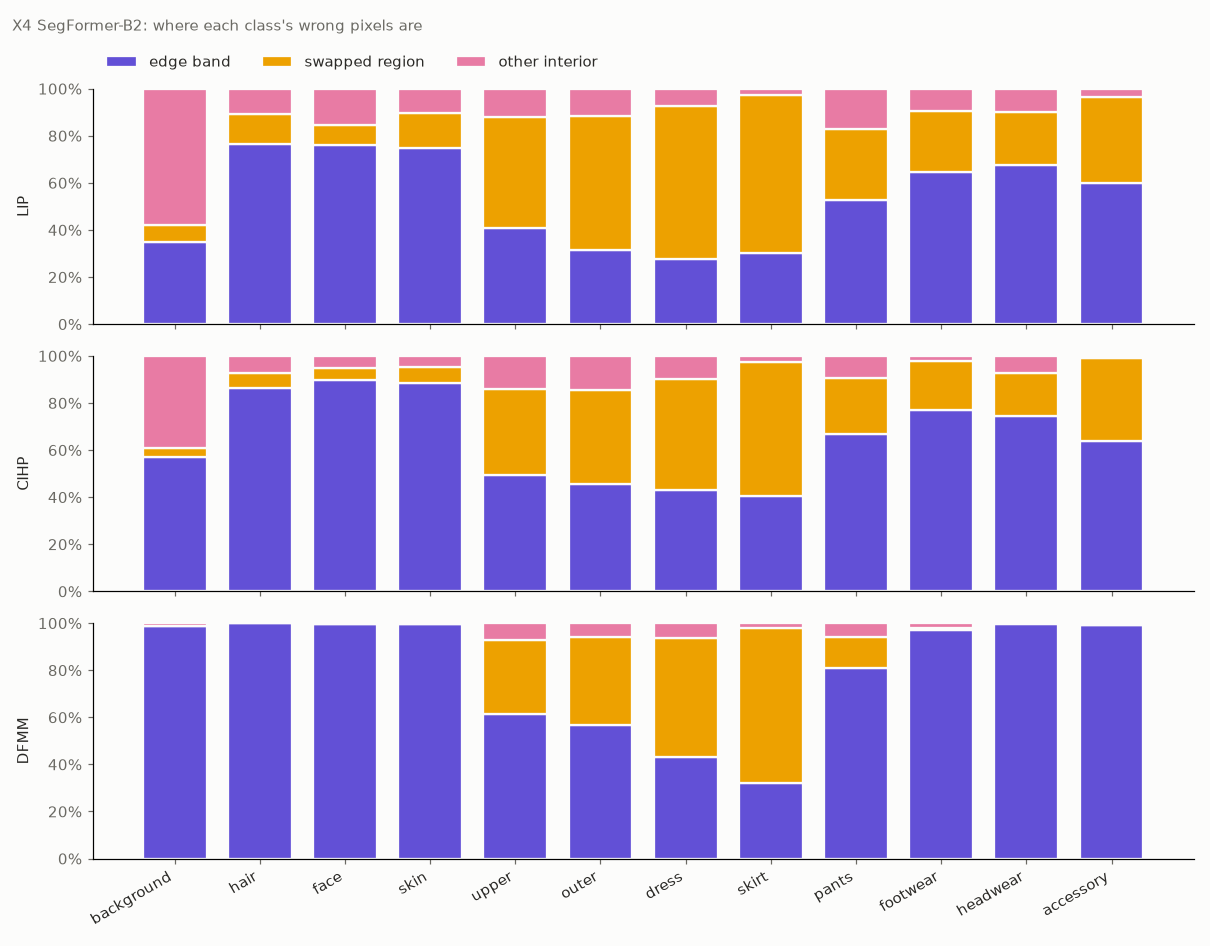
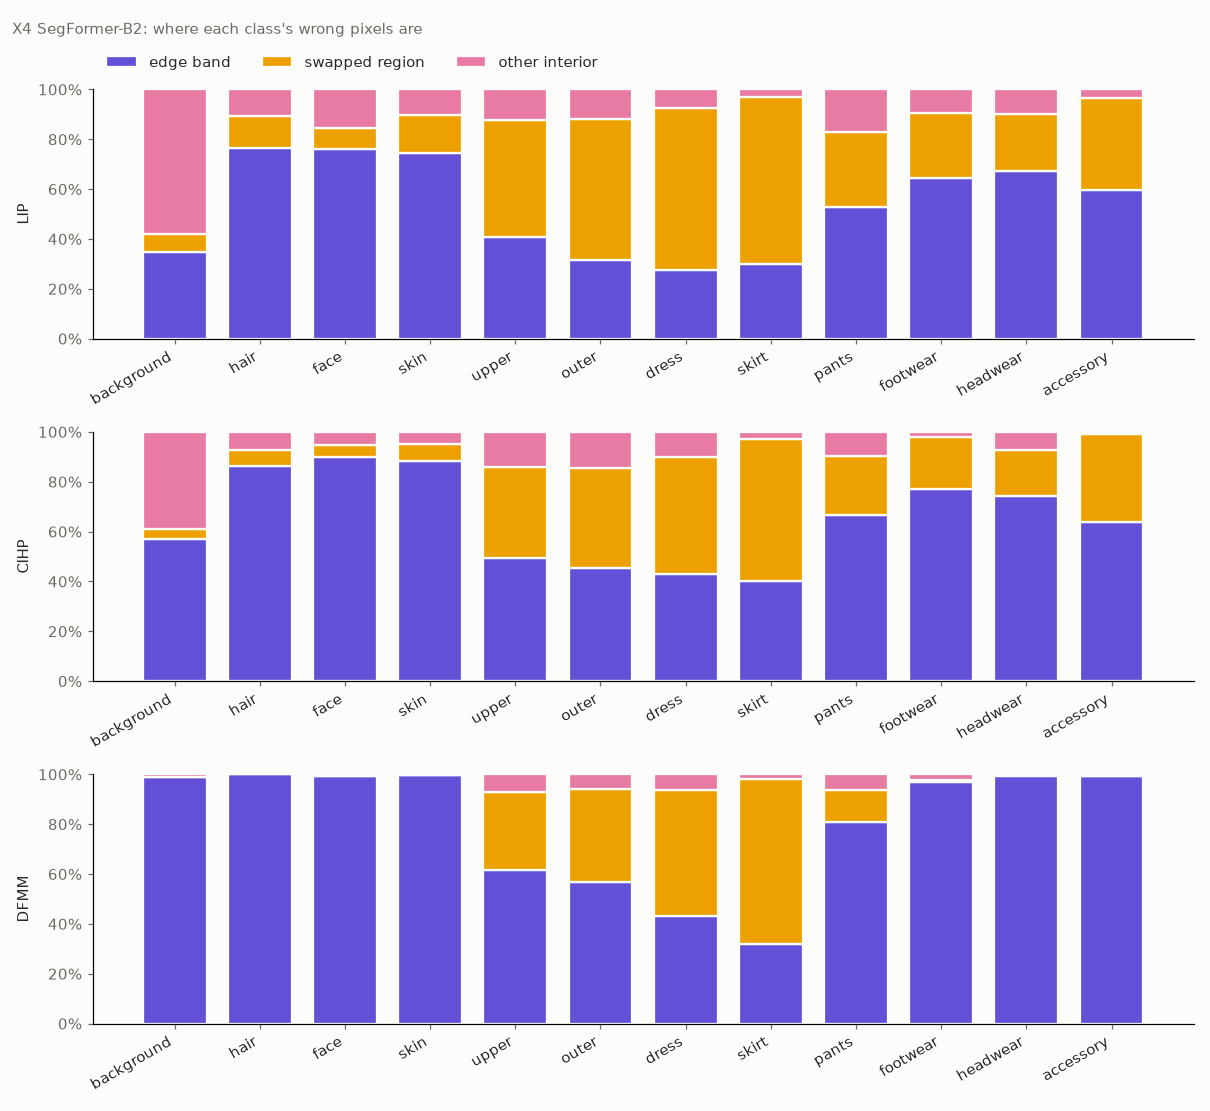
fix: class labels under every panel in stacked per-class figures

diff --git a/src/cloth_segment/error_report.py b/src/cloth_segment/error_report.py
@@ -421,7 +421,7 @@ def plot_class_zones(res: Mapping, out: Path) -> Path:
     """Per test set, per class: zone shares of the last run's wrong pixels (stacked bars)."""
     datasets = list(res["datasets"])
     last = list(res["runs"])[-1]
-    fig = Figure(figsize=(11, 2.6 * len(datasets) + 0.8), facecolor=SURFACE)
+    fig = Figure(figsize=(11, 3.1 * len(datasets) + 0.8), facecolor=SURFACE)
     axes = np.atleast_1d(fig.subplots(len(datasets), 1, sharex=True))
     x = np.arange(len(SHARED_CLASSES))
     for ax, d in zip(axes, datasets, strict=True):
@@ -447,7 +447,9 @@ def plot_class_zones(res: Mapping, out: Path) -> Path:
         for s in ("top", "right"):
             ax.spines[s].set_visible(False)
         ax.tick_params(colors=MUTED)
-    axes[-1].set_xticks(x, SHARED_CLASSES, rotation=30, ha="right", color=INK)
+        # class names under every panel, not only the last (sharex hides them)
+        ax.set_xticks(x, SHARED_CLASSES, rotation=30, ha="right", color=INK)
+        ax.tick_params(axis="x", labelbottom=True)
     axes[0].legend(
         frameon=False, labelcolor=INK, ncols=3, loc="lower left", bbox_to_anchor=(0, 1.02)
     )

diff --git a/src/cloth_segment/results.py b/src/cloth_segment/results.py
@@ -555,7 +555,7 @@ def plot_headline(res: Mapping, out: Path) -> Path:
 def plot_per_class(res: Mapping, out: Path, metric: str = "iou") -> Path:
     """One panel per test set: per-class IoU (or Dice) of each run as grouped bars."""
     aliases, datasets = list(res["runs"]), list(res["datasets"])
-    fig = Figure(figsize=(11, 2.9 * len(datasets) + 0.6), facecolor=SURFACE)
+    fig = Figure(figsize=(11, 3.4 * len(datasets) + 0.6), facecolor=SURFACE)
     axes = fig.subplots(len(datasets), 1, sharex=True)
     width = 0.8 / len(aliases)
     x = np.arange(NUM_CLASSES)
@@ -589,7 +589,9 @@ def plot_per_class(res: Mapping, out: Path, metric: str = "iou") -> Path:
                 fontsize=8,
                 color=MUTED,
             )
-    ax.set_xticks(x, SHARED_CLASSES, rotation=30, ha="right", color=INK)
+        # class names under every panel, not only the last (sharex hides them)
+        ax.set_xticks(x, SHARED_CLASSES, rotation=30, ha="right", color=INK)
+        ax.tick_params(axis="x", labelbottom=True)
     _legend(
         np.atleast_1d(axes)[0], loc="upper center", ncols=len(aliases), bbox_to_anchor=(0.5, 1.28)
     )
